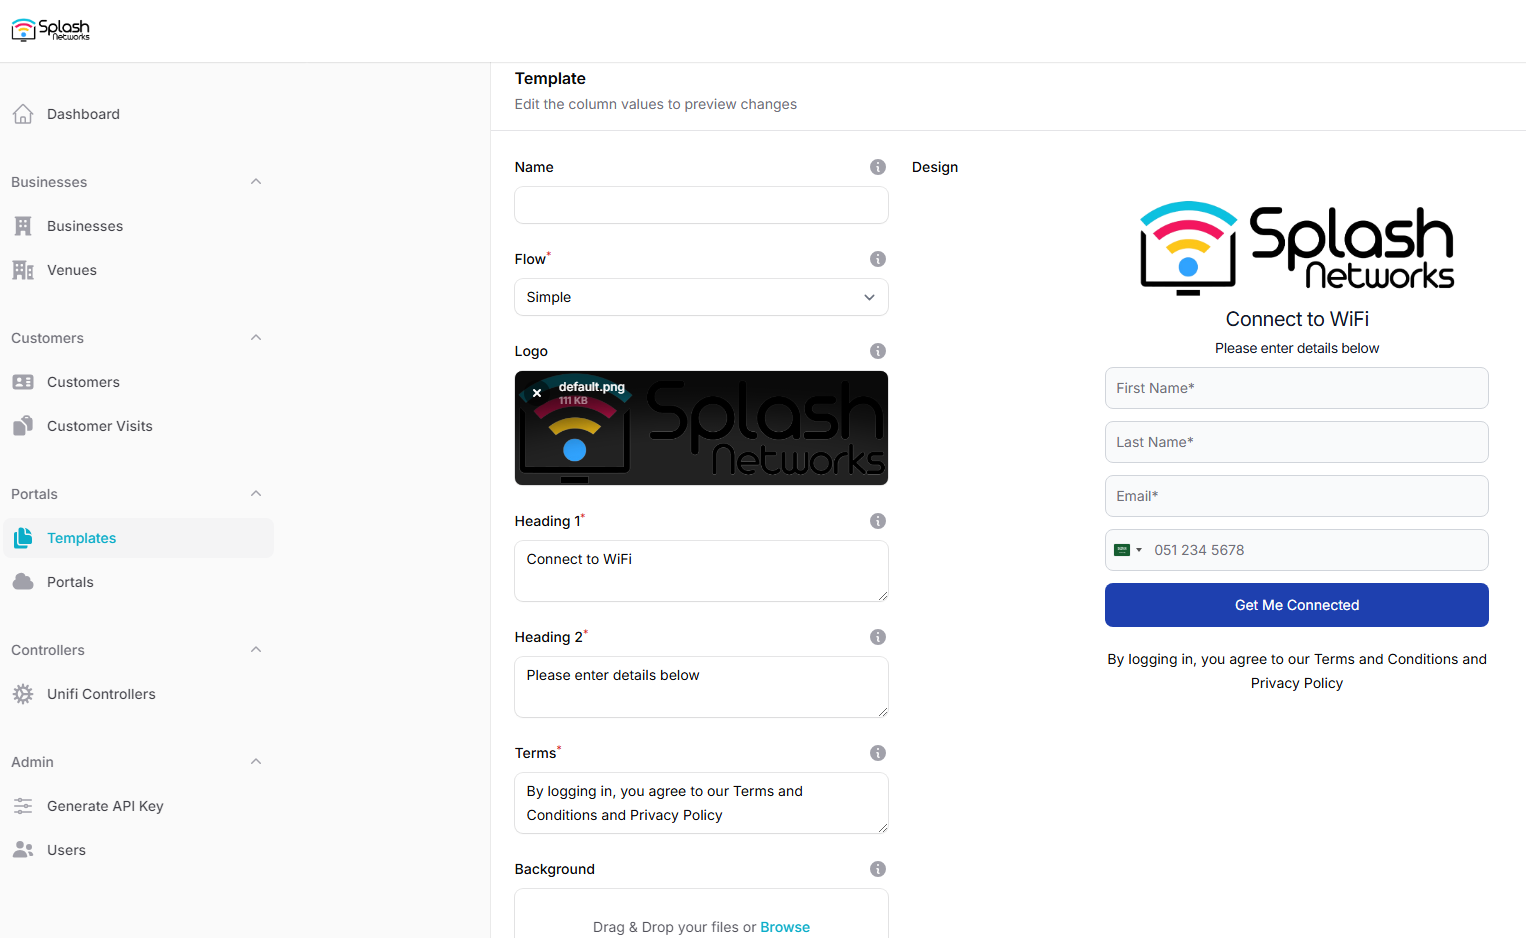
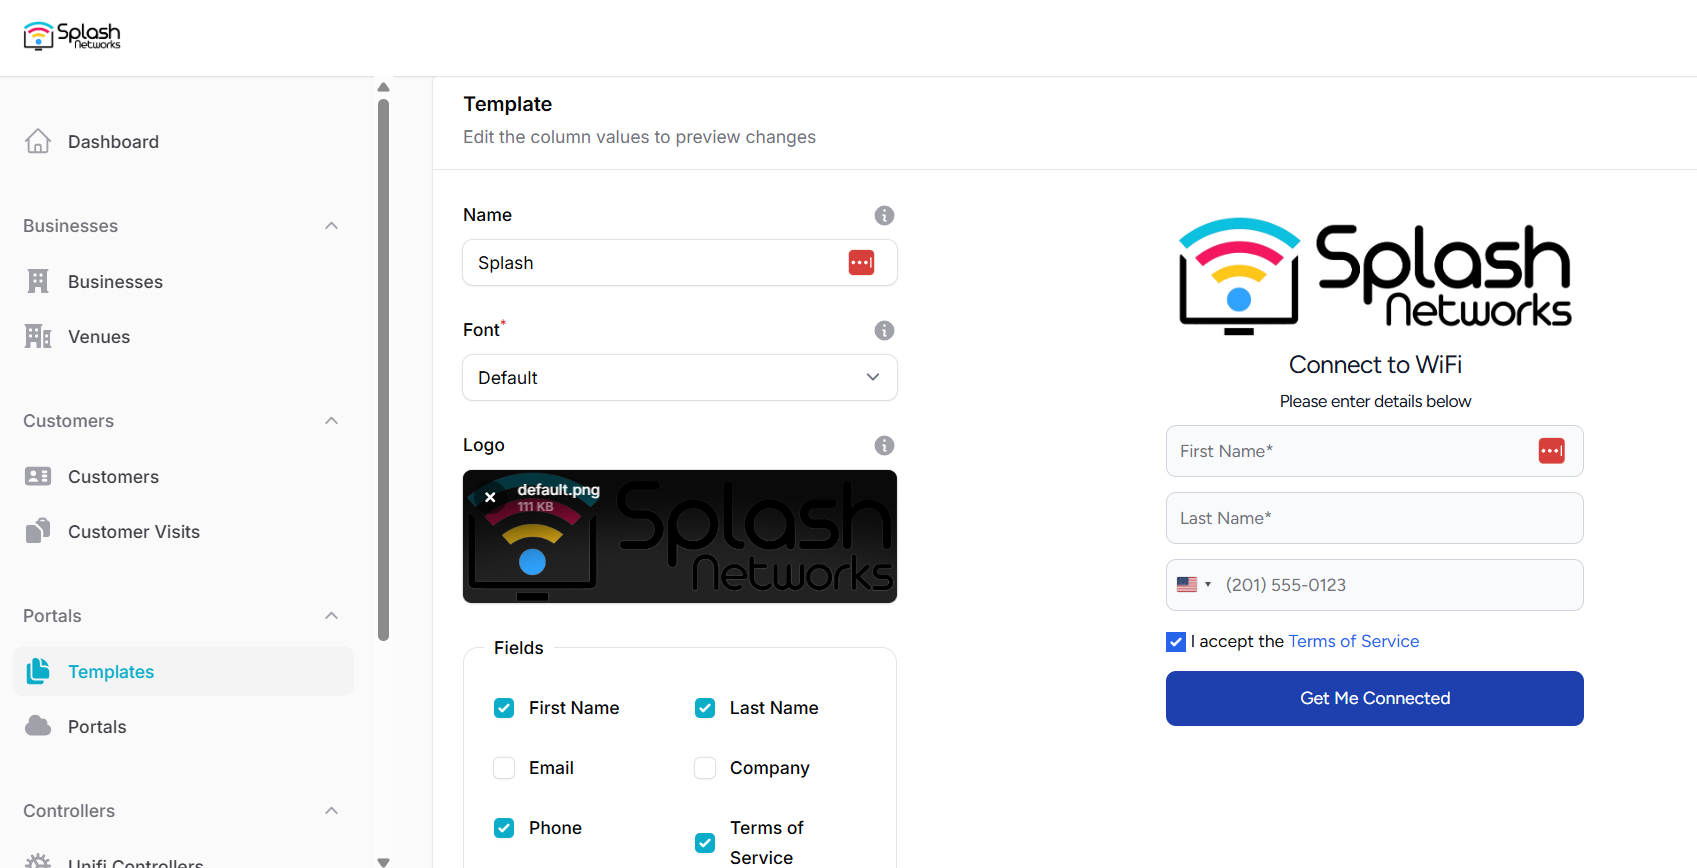
expiry and template update

diff --git a/docs/defining-templates.md b/docs/defining-templates.md
@@ -2,7 +2,7 @@
 
 In the Templates tab you can add a new template using the New template button or through the Import button if you have a previous export that you'd like to import.
 
-When creating a new template you can modify the logo and the text fields according to your preference. Also, you can add a Background Image. The changes will be displayed in real time on the panel on the right side.
+When creating a new template you can modify the logo and the text fields according to your preference. The field selector section allows you to enable/disable various fields like Email and Phone number based on your requirements. You can change the font, button color, and placeholders for fields. Also, you can add a Background Image. The changes will be displayed in real time on the panel on the right side.
 
 ![Template](assets/images/template.png)
 

diff --git a/docs/portals/unifi.md b/docs/portals/unifi.md
@@ -53,7 +53,8 @@ Clicking on a portal takes you to the details for that portal. It lets you speci
 ```
 Redirect URL: the URL a user is redirected to after succesful portal authorization
 Business Name: name of the venue which will be displayed on top of the portal
-Duration: the time in seconds for which a user is authorized on the network
+Duration: the time in minutes for which a user is authorized on the network
+Expiry: the time in days after which a repeat user will have to enter their data again on the portal
 ```
 
 You can click on the Edit button against each entry to modify it if needed.

diff --git a/docs/portals/aruba-instant-on.md b/docs/portals/aruba-instant-on.md
@@ -19,6 +19,7 @@ Clicking on a portal takes you to the details for that portal. It lets you speci
 ```
 Business Name: name of the venue which will be displayed on top of the portal
 Session Timeout: the time in seconds for which a user is authorized on the network
+Expiry: the time in days after which a repeat user will have to enter their data again on the portal
 ```
 
 You can click on the Edit button against each entry to modify it if needed.

diff --git a/docs/portals/mikrotik.md b/docs/portals/mikrotik.md
@@ -19,6 +19,7 @@ Clicking on a portal takes you to the details for that portal. It lets you speci
 ```
 Business Name: name of the venue which will be displayed on top of the portal
 Redirect URL: the URL a user is redirected to after succesful portal authorization
+Expiry: the time in days after which a repeat user will have to enter their data again on the portal
 ```
 
 You can click on the Edit button against each entry to modify it if needed.
